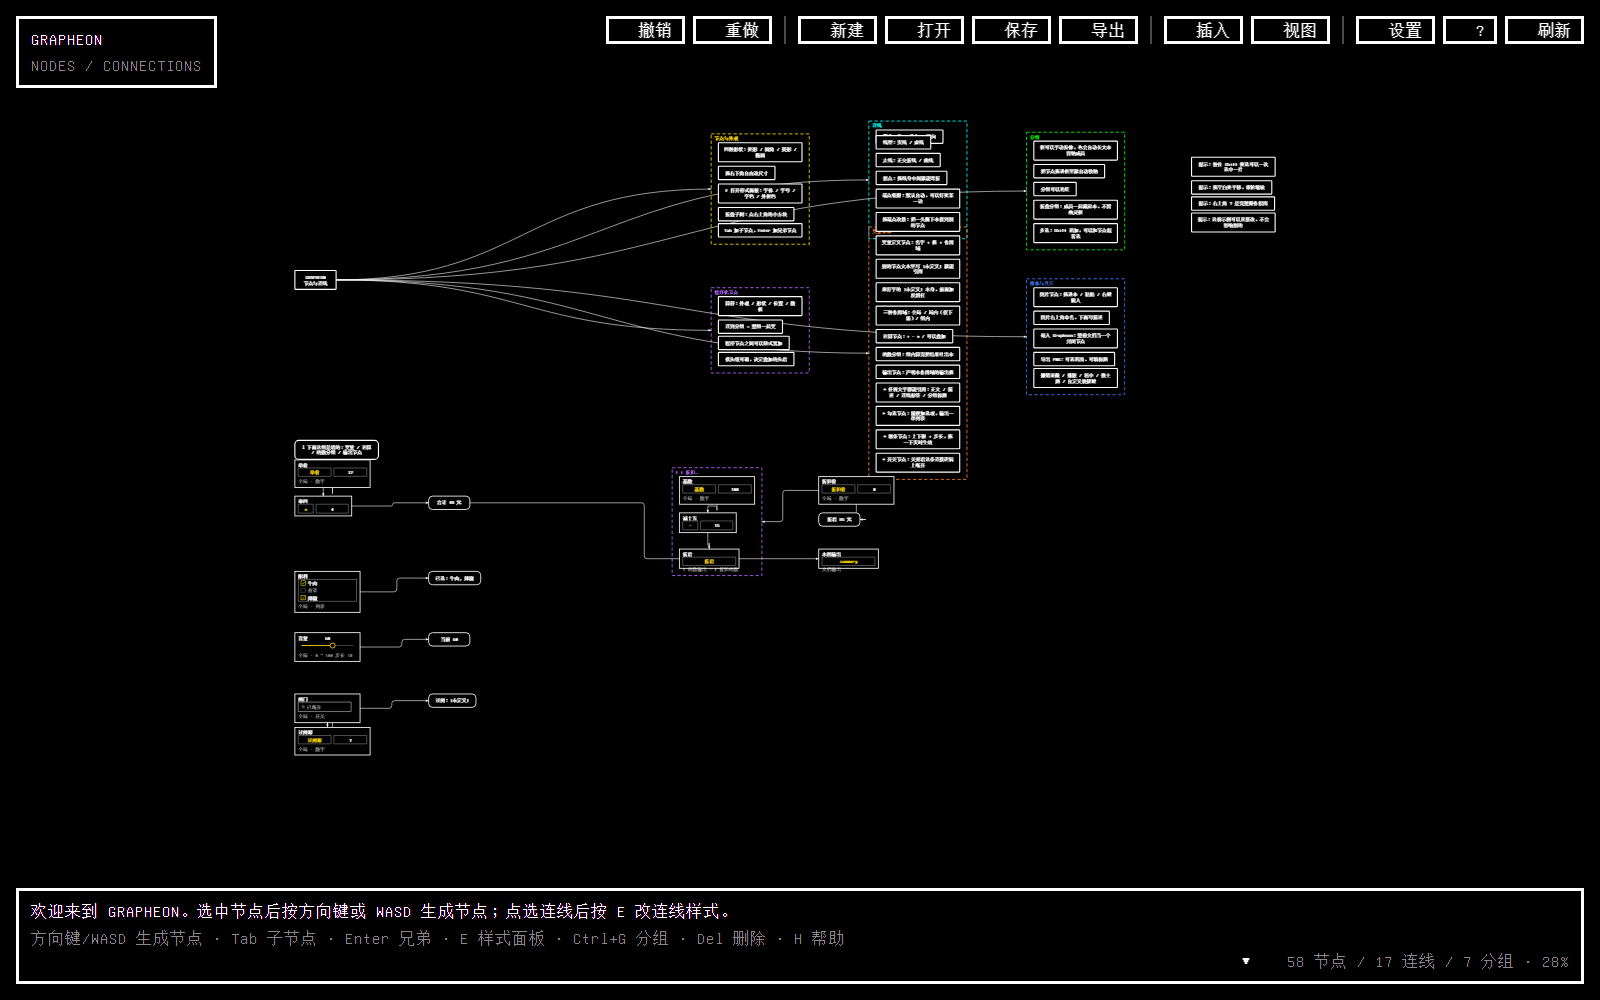
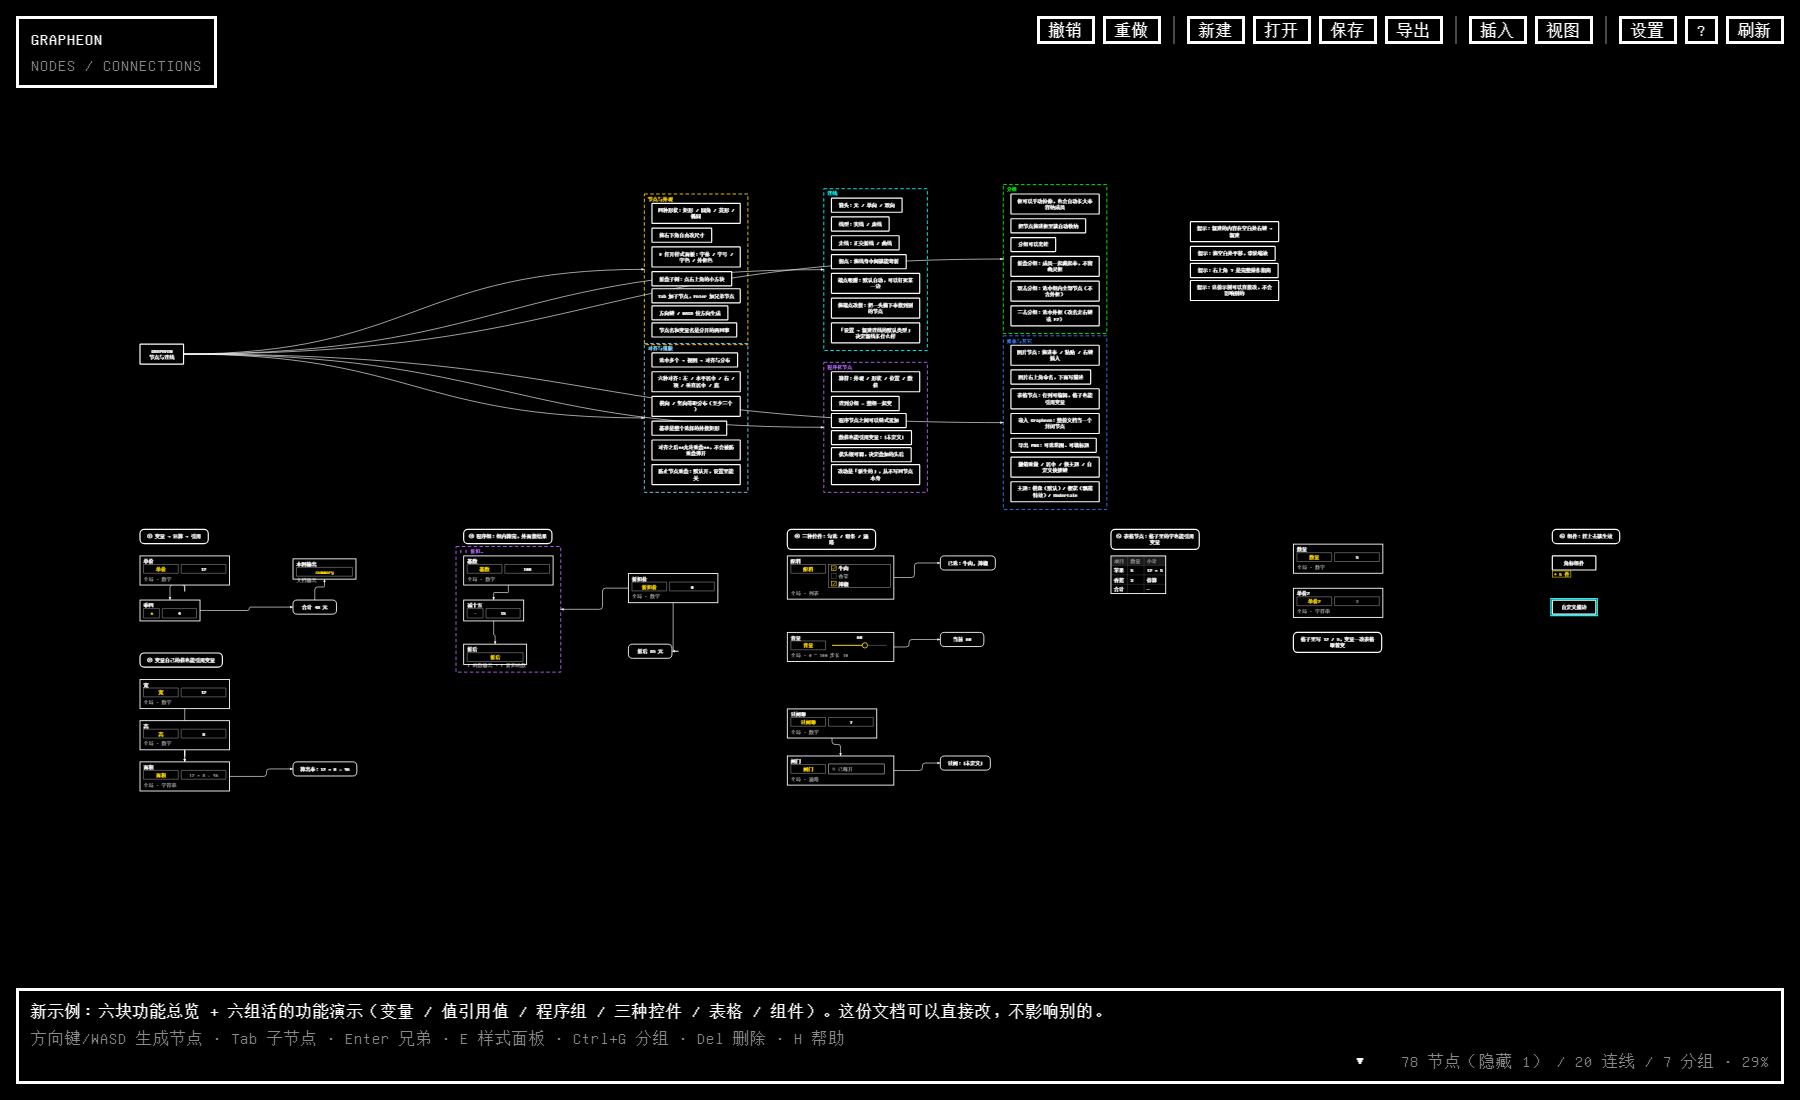
重写示例文档：六块功能总览 + 六组活演示（变量/值引用/程序组/控件/表格/组件）

diff --git a/src/app/demo.js b/src/app/demo.js
@@ -25,8 +25,8 @@ function demoDoc(){
     edges.push(e);
     return e;
   };
-  /* 一列：竖着排一串节点，返回它们 */
-  const column = (items, x, y) => items.map((t, i) => N(t, x, y + i * 58));
+  /* 一整组：竖着排一串节点，返回它们 */
+  const column = (items, x, y, step) => items.map((t, i) => N(t, x, y + i * (step || 58)));
   /* 一个功能分组：把这一列的成员装进去 */
   const groupOf = (title, color, members) => {
     const g = { id:'dg' + (groups.length + 1), title, members:members.map(m => m.id),
@@ -34,21 +34,29 @@ function demoDoc(){
     groups.push(g);
     return g;
   };
+  /* 一张小标题：用来给下面的活演示分区 */
+  const head = (text, x, y, color) => {
+    const n = N(text, x, y, { shape:'round', big:false });
+    n.headColor = color || null;
+    return n;
+  };
 
-  /* ---------- 根 ---------- */
-  const root = N('GRAPHEON\n节点与连线', -1180, -260, { w:0, h:0 });
+  /* ==================== 根 ==================== */
+  const root = N('GRAPHEON\n节点与连线', -1420, -300, { w:0, h:0 });
   root.big = true;
 
-  /* ---------- 六块功能，3 列 × 2 行 ---------- */
-  const COLW = 520, ROWH = 460, GAPX = 46, GAPY = 60;
-  const bandX = 340, bandY = -660;
+  /* ==================== 功能总览：3 列 × 2 行 ==================== */
+  const COLW = 560, ROWH = 470, GAPX = 50, GAPY = 70;
+  const bandX = 320, bandY = -720;
   const FEATURES = [
     ['节点与外观', '#ffd800', [
       '四种形状：矩形 / 圆角 / 菱形 / 椭圆',
       '拖右下角自由改尺寸',
       'E 打开样式面板：字体 / 字号 / 字色 / 外框色',
       '折叠子树：点右上角的小方块',
-      'Tab 加子节点，Enter 加兄弟节点'
+      'Tab 加子节点，Enter 加兄弟节点',
+      '方向键 / WASD 按方向生成',
+      '节点名和变量名是分开的两回事'
     ]],
     ['连线', '#00ffff', [
       '箭头：无 / 单向 / 双向',
@@ -56,40 +64,41 @@ function demoDoc(){
       '走线：正交折线 / 曲线',
       '拐点：拖线身中间就能弯折',
       '端点吸附：默认自动，可以钉死某一边',
-      '拖端点改接：把一头摘下来接到别的节点'
+      '拖端点改接：把一头摘下来接到别的节点',
+      '「设置 → 新建连线的默认类型」决定新线长什么样'
     ]],
     ['分组', '#00ff00', [
       '框可以手动拉伸，也会自动长大来容纳成员',
       '把节点拖进框里就自动收纳',
       '分组可以套娃',
       '折叠分组：成员一起藏起来，不留幽灵框',
-      '多选：Shift 追加，可以和节点混着选'
+      '双击分组：选中组内全部节点（不含外框）',
+      '三击分组：选中外框（改名走右键或 F2）'
+    ]],
+    ['对齐与排版', '#7fd4ff', [
+      '选中多个 → 视图 → 对齐与分布',
+      '六种对齐：左 / 水平居中 / 右 / 顶 / 垂直居中 / 底',
+      '横向 / 竖向等距分布（至少三个）',
+      '基准是整个选择的外接矩形',
+      '对齐之后**允许重叠**，不会被防重叠弹开',
+      '防止节点重叠：默认开，设置里能关'
     ]],
     ['程序化节点', '#b967ff', [
       '算符：外观 / 形状 / 位置 / 数值',
       '连到分组 = 整组一起变',
       '程序节点之间可以链式累加',
-      '优先级可调，决定叠加的先后'
-    ]],
-    ['变量系统', '#ff7f27', [
-      '变量定义节点：名字 + 值 + 作用域',
-      '别的节点文本里写 {名字} 就能引用',
-      '想打字的 {名字} 本身，前面加反斜杠',
-      '三种作用域：全局 / 局内（仅下游）/ 组内',
-      '运算节点：+ - * / 可以叠加',
-      '程序组：组内算完把结果吐出来',
-      '输出节点：声明本作用域的输出值',
-      '★ 任何文字都能引用：正文 / 描述 / 连线标签 / 分组标题',
-      '★ 勾选节点：随便加选项，输出一串列表',
-      '★ 滑条节点：上下限 + 步长，拖一下实时生效',
-      '★ 通路节点：关掉后这条连接逻辑上断开'
+      '数值也能引用变量：{倍数}',
+      '优先级可调，决定叠加的先后',
+      '改动是「派生的」，从不写回节点本身'
     ]],
     ['媒体与其它', '#3b7dff', [
       '图片节点：拖进来 / 粘贴 / 右键插入',
       '图片右上角命名，下面写描述',
+      '表格节点：行列可编辑，格子也能引用变量',
       '嵌入 Grapheon：整份文档当一个封闭节点',
       '导出 PNG：可选范围、可填标题',
-      '撤销重做 / 排版 / 居中 / 换主题 / 自定义快捷键'
+      '撤销重做 / 居中 / 换主题 / 自定义快捷键',
+      '主题：棋盘（默认）/ 樱花（飘落特效）/ Undertale'
     ]]
   ];
   FEATURES.forEach(([title, color, items], i) => {
@@ -97,73 +106,122 @@ function demoDoc(){
     const y = bandY + Math.floor(i / 3) * (ROWH + GAPY);
     groupOf(title, color, column(items, x, y));
   });
-  // 根 → 每个分组的连线。分组不在 nodes 里，所以直接给出分组 id
+  // 根 → 每个功能分组
   for (const g of groups){
     edges.push(normalizeEdge({ id:'de' + (++eid), s:root.id, t:g.id,
                                route:'curve', aSide:'r', bSide:'l' }));
   }
 
-  /* ---------- 活的功能演示 ---------- */
-  const demoY = bandY + 2 * (ROWH + GAPY) + 40;
-  const title = N('↓ 下面这组是活的：变量 / 运算 / 程序组 / 输出节点', -1180, demoY - 70, { shape:'round' });
+  /* ==================== 变量系统：整块往右挪，别和功能带撞 ==================== */
+  const LX = -1420;                   // 变量演示区的左边界
+  const demoY = bandY + 2 * (ROWH + GAPY) + 60;
 
-  // 变量 单价=12 → 运算 ×4 → 节点「合计 48 元」
-  const vPrice = N('单价', -1180, demoY, {
+  const vHead = head('① 变量 → 运算 → 引用', LX, demoY - 90);
+  /* ---- ① 变量 + 运算 + 引用 ---- */
+  const vPrice = N('单价', LX, demoY, {
     kind:'var', varDef:{ name:'单价', value:'12', type:'number', scope:'global' } });
-  const opMul = N('乘四', -1180, demoY + 130, { kind:'op', opDef:{ op:'*', operand:'4' } });
-  const total = N('合计 {单价} 元', -700, demoY + 130, { shape:'round' });
+  const opMul = N('乘四', LX, demoY + 150, { kind:'op', opDef:{ op:'*', operand:'4' } });
+  const total = N('合计 {单价} 元', LX + 520, demoY + 150, { shape:'round' });
   E(vPrice, opMul); E(opMul, total);
+  // 文档级输出节点：声明「本图的输出」
+  const docOut = N('本图输出', LX + 520, demoY + 10, { kind:'out', outDef:{ name:'summary' } });
+  E(total, docOut);
 
-  // 函数分组「折扣函数」：基数 100 → 减 15 → 输出节点 折后
+  /* ---- ② 变量的值也能引用变量 ---- */
+  const vHead2 = head('② 变量自己的值也能引用变量', LX, demoY + 330);
+  const vW = N('宽', LX, demoY + 420, {
+    kind:'var', varDef:{ name:'宽', value:'12', type:'number', scope:'global' } });
+  const vH = N('高', LX, demoY + 560, {
+    kind:'var', varDef:{ name:'高', value:'8', type:'number', scope:'global' } });
+  const vArea = N('面积', LX, demoY + 700, {
+    kind:'var', varDef:{ name:'面积', value:'{宽} × {高} = 96', type:'string', scope:'global' } });
+  const areaOut = N('算出来：{面积}', LX + 520, demoY + 700, { shape:'round' });
+  E(vArea, areaOut);
+  // 改宽/高，面积跟着变 —— 这里只连出来给人看，值本身是插值算的
+  E(vW, vArea); E(vH, vArea);
+
+  /* ==================== 程序组（原函数分组） ==================== */
+  const FX = LX + 1100;
+  const vHead3 = head('③ 程序组：组内算完，外面接结果', FX, demoY - 90);
   const fg = { id:'dg' + (groups.length + 1), title:'ƒ 折扣函数', members:[],
-               color:'#b967ff', x:200, y:demoY, w:10, h:10, collapsed:false, isFunction:true };
+               color:'#b967ff', x:FX, y:demoY, w:10, h:10, collapsed:false, isFunction:true };
   groups.push(fg);
-  const vBase = N('基数', 200, demoY + 60, {
+  const vBase = N('基数', FX, demoY, {
     kind:'var', varDef:{ name:'基数', value:'100', type:'number', scope:'global' } });
-  const opSub = N('减十五', 200, demoY + 190, { kind:'op', opDef:{ op:'-', operand:'15' } });
-  const outFn = N('折后', 200, demoY + 320, { kind:'out', outDef:{ name:'折后' } });
+  const opSub = N('减十五', FX, demoY + 150, { kind:'op', opDef:{ op:'-', operand:'15' } });
+  const outFn = N('折后', FX, demoY + 300, { kind:'out', outDef:{ name:'折后' } });
   E(vBase, opSub); E(opSub, outFn);
   fg.members = [vBase.id, opSub.id, outFn.id];
 
-  // 外层变量指向函数分组，拿到 85
-  const vDisc = N('折扣价', 700, demoY + 60, {
+  // 外面一个变量指向程序组 → 拿到组内算出来的 85
+  const vDisc = N('折扣价', FX + 560, demoY + 60, {
     kind:'var', varDef:{ name:'折扣价', value:'0', type:'number', scope:'global' } });
-  edges.push(normalizeEdge({ id:'de' + (++eid), s:vDisc.id, t:fg.id }));   // 变量 → 函数分组
-  const shown = N('折后 {折扣价} 元', 700, demoY + 190, { shape:'round' });
+  edges.push(normalizeEdge({ id:'de' + (++eid), s:vDisc.id, t:fg.id }));   // 变量 → 程序组
+  const shown = N('折后 {折扣价} 元', FX + 560, demoY + 300, { shape:'round' });
   E(vDisc, shown);
 
-  // 文档输出节点
-  const docOut = N('本图输出', 700, demoY + 320, { kind:'out', outDef:{ name:'summary' } });
-  E(total, docOut);
+  /* ==================== 三种控件 ==================== */
+  const CX = FX + 1100;
+  const vHead4 = head('④ 三种控件：勾选 / 滑条 / 通路', CX, demoY - 90);
 
-  // 三种特殊变量控件
-  const ck = N('配料', -1180, demoY + 400, {
+  const ck = N('配料', CX, demoY, {
     kind:'var', varDef:{ name:'配料', type:'string', scope:'global', control:'check',
       options:['牛肉', '香菜', '辣椒'], picked:[0, 2] } });
-  const ckOut = N('已选：{配料}', -700, demoY + 400, { shape:'round' });
+  const ckOut = N('已选：{配料}', CX + 520, demoY, { shape:'round' });
   E(ck, ckOut);
 
-  const sl = N('音量', -1180, demoY + 620, {
+  const sl = N('音量', CX, demoY + 260, {
     kind:'var', varDef:{ name:'音量', type:'number', scope:'global', control:'slider',
       value:'60', min:0, max:100, step:10 } });
-  const slOut = N('当前 {音量}', -700, demoY + 620, { shape:'round' });
+  const slOut = N('当前 {音量}', CX + 520, demoY + 260, { shape:'round' });
   E(sl, slOut);
 
-  // 开关：关着的时候值过不去，右边会变成 [未定义]
-  const gate = N('闸门', -1180, demoY + 840, {
+  /* 通路节点：关着的时候值过不去，下游变成 [未定义] */
+  const gateSrc = N('过闸源', CX, demoY + 520, {
+    kind:'var', varDef:{ name:'过闸源', value:'7', type:'number', scope:'global' } });
+  const gate = N('闸门', CX, demoY + 680, {
     kind:'var', varDef:{ name:'闸门', type:'string', scope:'global', control:'switch', on:false } });
-  const gateOut = N('过闸：{单价}', -700, demoY + 840, { shape:'round' });
-  const gateSrc = N('过闸源', -1180, demoY + 960, { kind:'var', varDef:{ name:'过闸源', value:'7', type:'number', scope:'global' } });
+  const gateOut = N('过闸：{过闸源}', CX + 520, demoY + 680, { shape:'round' });
   E(gateSrc, gate); E(gate, gateOut);
-  gateOut.text = '过闸：{过闸源}';
 
-  /* ---------- 一些小提示 ---------- */
+  /* ==================== 表格节点 ==================== */
+  const TX = CX + 1100;
+  const vHead5 = head('⑤ 表格节点：格子里的字也能引用变量', TX, demoY - 90);
+  const tbl = N('', TX, demoY, {
+    kind:'table',
+    tableDef:{ cols:3, rows:4, header:true, cells:[
+      ['项目', '数量', '小计'],
+      ['苹果', '{数量}', '{单价} × {数量}'],
+      ['香蕉', '3', '待算'],
+      ['合计', '', '—']
+    ] } });
+  const vQty = N('数量', TX + 620, demoY - 40, {
+    kind:'var', varDef:{ name:'数量', value:'5', type:'number', scope:'global' } });
+  const vUnit = N('单价2', TX + 620, demoY + 110, {
+    kind:'var', varDef:{ name:'单价2', value:'3', type:'string', scope:'global' } });
+  // 表格用的是外面那个「单价」，这里再放一个说明引用关系的节点
+  const tblNote = N('格子里写 {单价} / {数量}，变量一改表格跟着变', TX + 620, demoY + 260, { shape:'round' });
+
+  /* ==================== 组件 ==================== */
+  const MX = TX + 1500;
+  const vHead6 = head('⑥ 组件：挂上去就生效', MX, demoY - 90);
+  const cBadge = N('角标组件', MX, demoY, {
+    components:[{ type:'badge', props:{ text:'★ {数量} 件', color:'#ffd800' } }] });
+  const cOutline = N('自定义描边', MX, demoY + 150, {
+    components:[{ type:'outline', props:{ width:'4', color:'#00ffff' } }] });
+  const cTint = N('染色 + 透明度', MX, demoY + 300, {
+    components:[{ type:'tint', props:{ color:'#b967ff' } },
+                { type:'opacity', props:{ value:'0.5' } }] });
+  const cHide = N('条件隐藏：{数量} 一有值就把我藏起来（现在就是藏着的）', MX, demoY + 450, {
+    components:[{ type:'hideIf', props:{ when:'{数量}' } }] });
+
+  /* ==================== 小提示 ==================== */
   const tips = column([
-    '提示：按住 Shift 框选可以一次选中一片',
+    '提示：新建的内容在空白处右键 → 新建',
     '提示：拖空白处平移，滚轮缩放',
     '提示：右上角 ? 是完整操作指南',
     '提示：这份示例可以直接改，不会影响别的'
-  ], bandX + 3 * (COLW + GAPX), bandY + 20);   // 挪到功能带右边，别和分组撞上
+  ], bandX + 3 * (COLW + GAPX), bandY + 30, 58);
 
   return { v:2, nid, nodes, edges, groups };
 }
